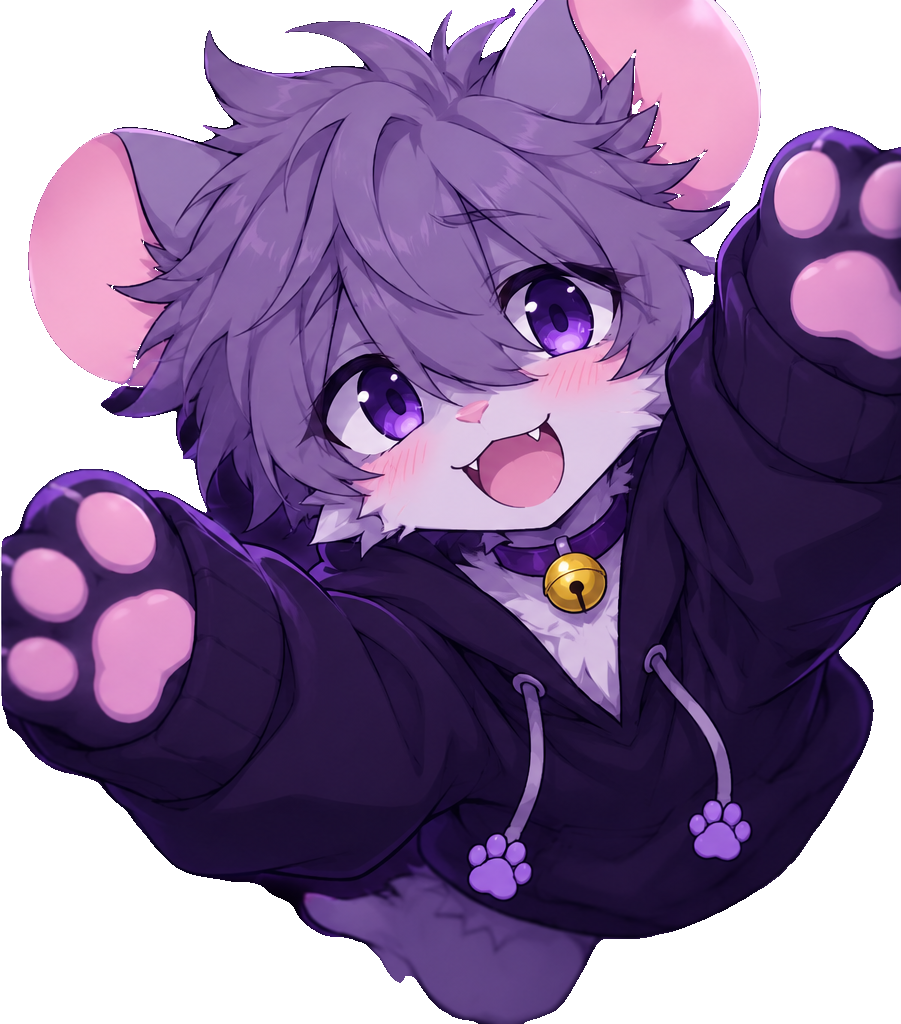
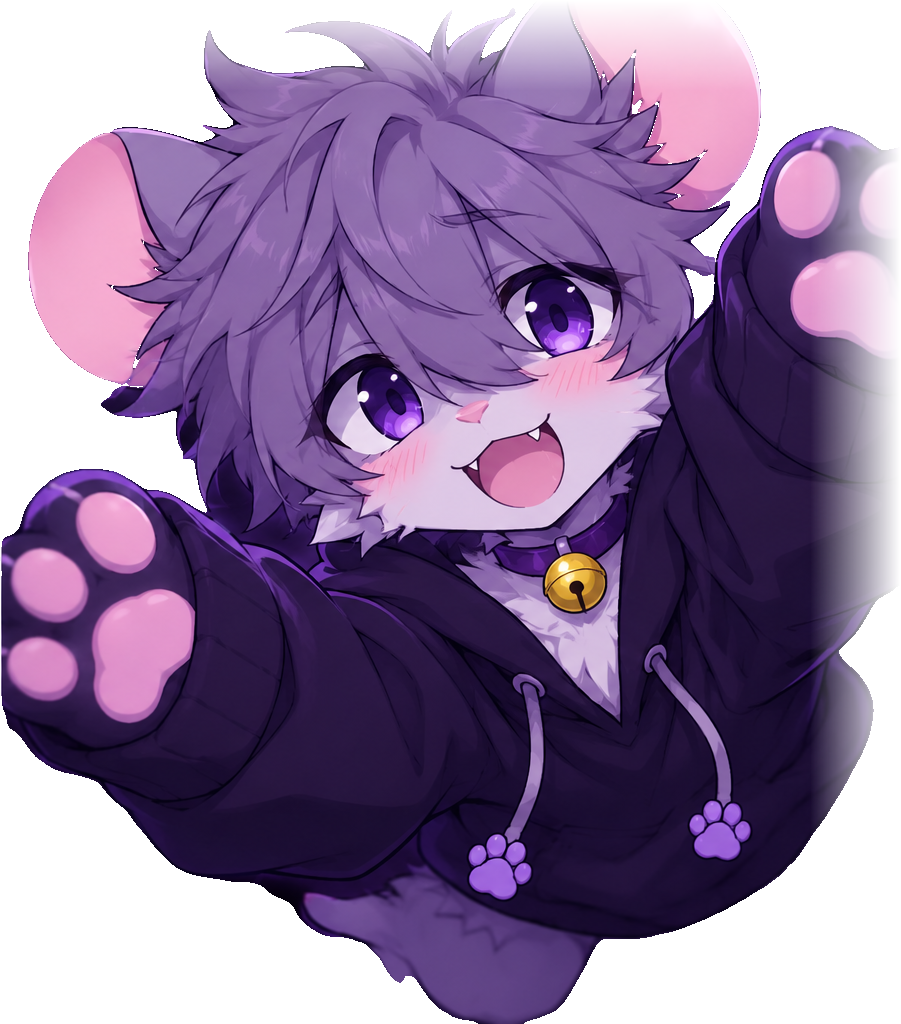
Plymouth: мягкие края у прыгающей Норки

Changed region(s): [[0.9012, 0.125, 1.0, 0.8125], [0.2175, 0.0, 0.8391, 0.0938]]

diff --git a/art/mascot/make.py b/art/mascot/make.py
@@ -17,7 +17,7 @@ src = here / "source"
 session = new_session("isnet-anime")
 
 
-def cut(image, name, keep_bright=0):
+def cut(image, name, keep_bright=0, fade=0, fade_sides=()):
     result = remove(image, session=session, post_process_mask=True)
     if keep_bright:
         # Нейросеть иногда принимает светлые розовые уши на чёрном за свечение фона.
@@ -32,6 +32,16 @@ def cut(image, name, keep_bright=0):
         result = image.convert("RGBA")
         result.putalpha(alpha)
     result = result.crop(result.getbbox())
+    if fade:
+        # Поза упиралась в край исходной картинки: ровный обрез растворяем, чтобы он не бросался в глаза
+        alpha = np.array(result.getchannel("A"), dtype=np.float32)
+        h, w = alpha.shape
+        ramp = np.clip(np.arange(fade) / fade, 0, 1)
+        if "top" in fade_sides:
+            alpha[:fade] *= ramp[:, None]
+        if "right" in fade_sides:
+            alpha[:, w - fade:] *= ramp[::-1][None, :]
+        result.putalpha(Image.fromarray(alpha.astype(np.uint8)))
     result.save(here / f"{name}.png", optimize=True)
     print(name, result.size)
 
@@ -41,4 +51,4 @@ cut(Image.open(src / "norka-shy.png").convert("RGB"), "norka-shy")
 sheet = Image.open(src / "norka-peek-jump.png").convert("RGB")
 # Слева от стенки (x≈620) Норка выглядывает, справа прыгает
 cut(sheet.crop((0, 0, 612, sheet.height)), "norka-peek")
-cut(sheet.crop((632, 0, sheet.width, sheet.height)), "norka-jump", keep_bright=110)
+cut(sheet.crop((632, 0, sheet.width, sheet.height)), "norka-jump", keep_bright=110, fade=90, fade_sides=("top", "right"))
